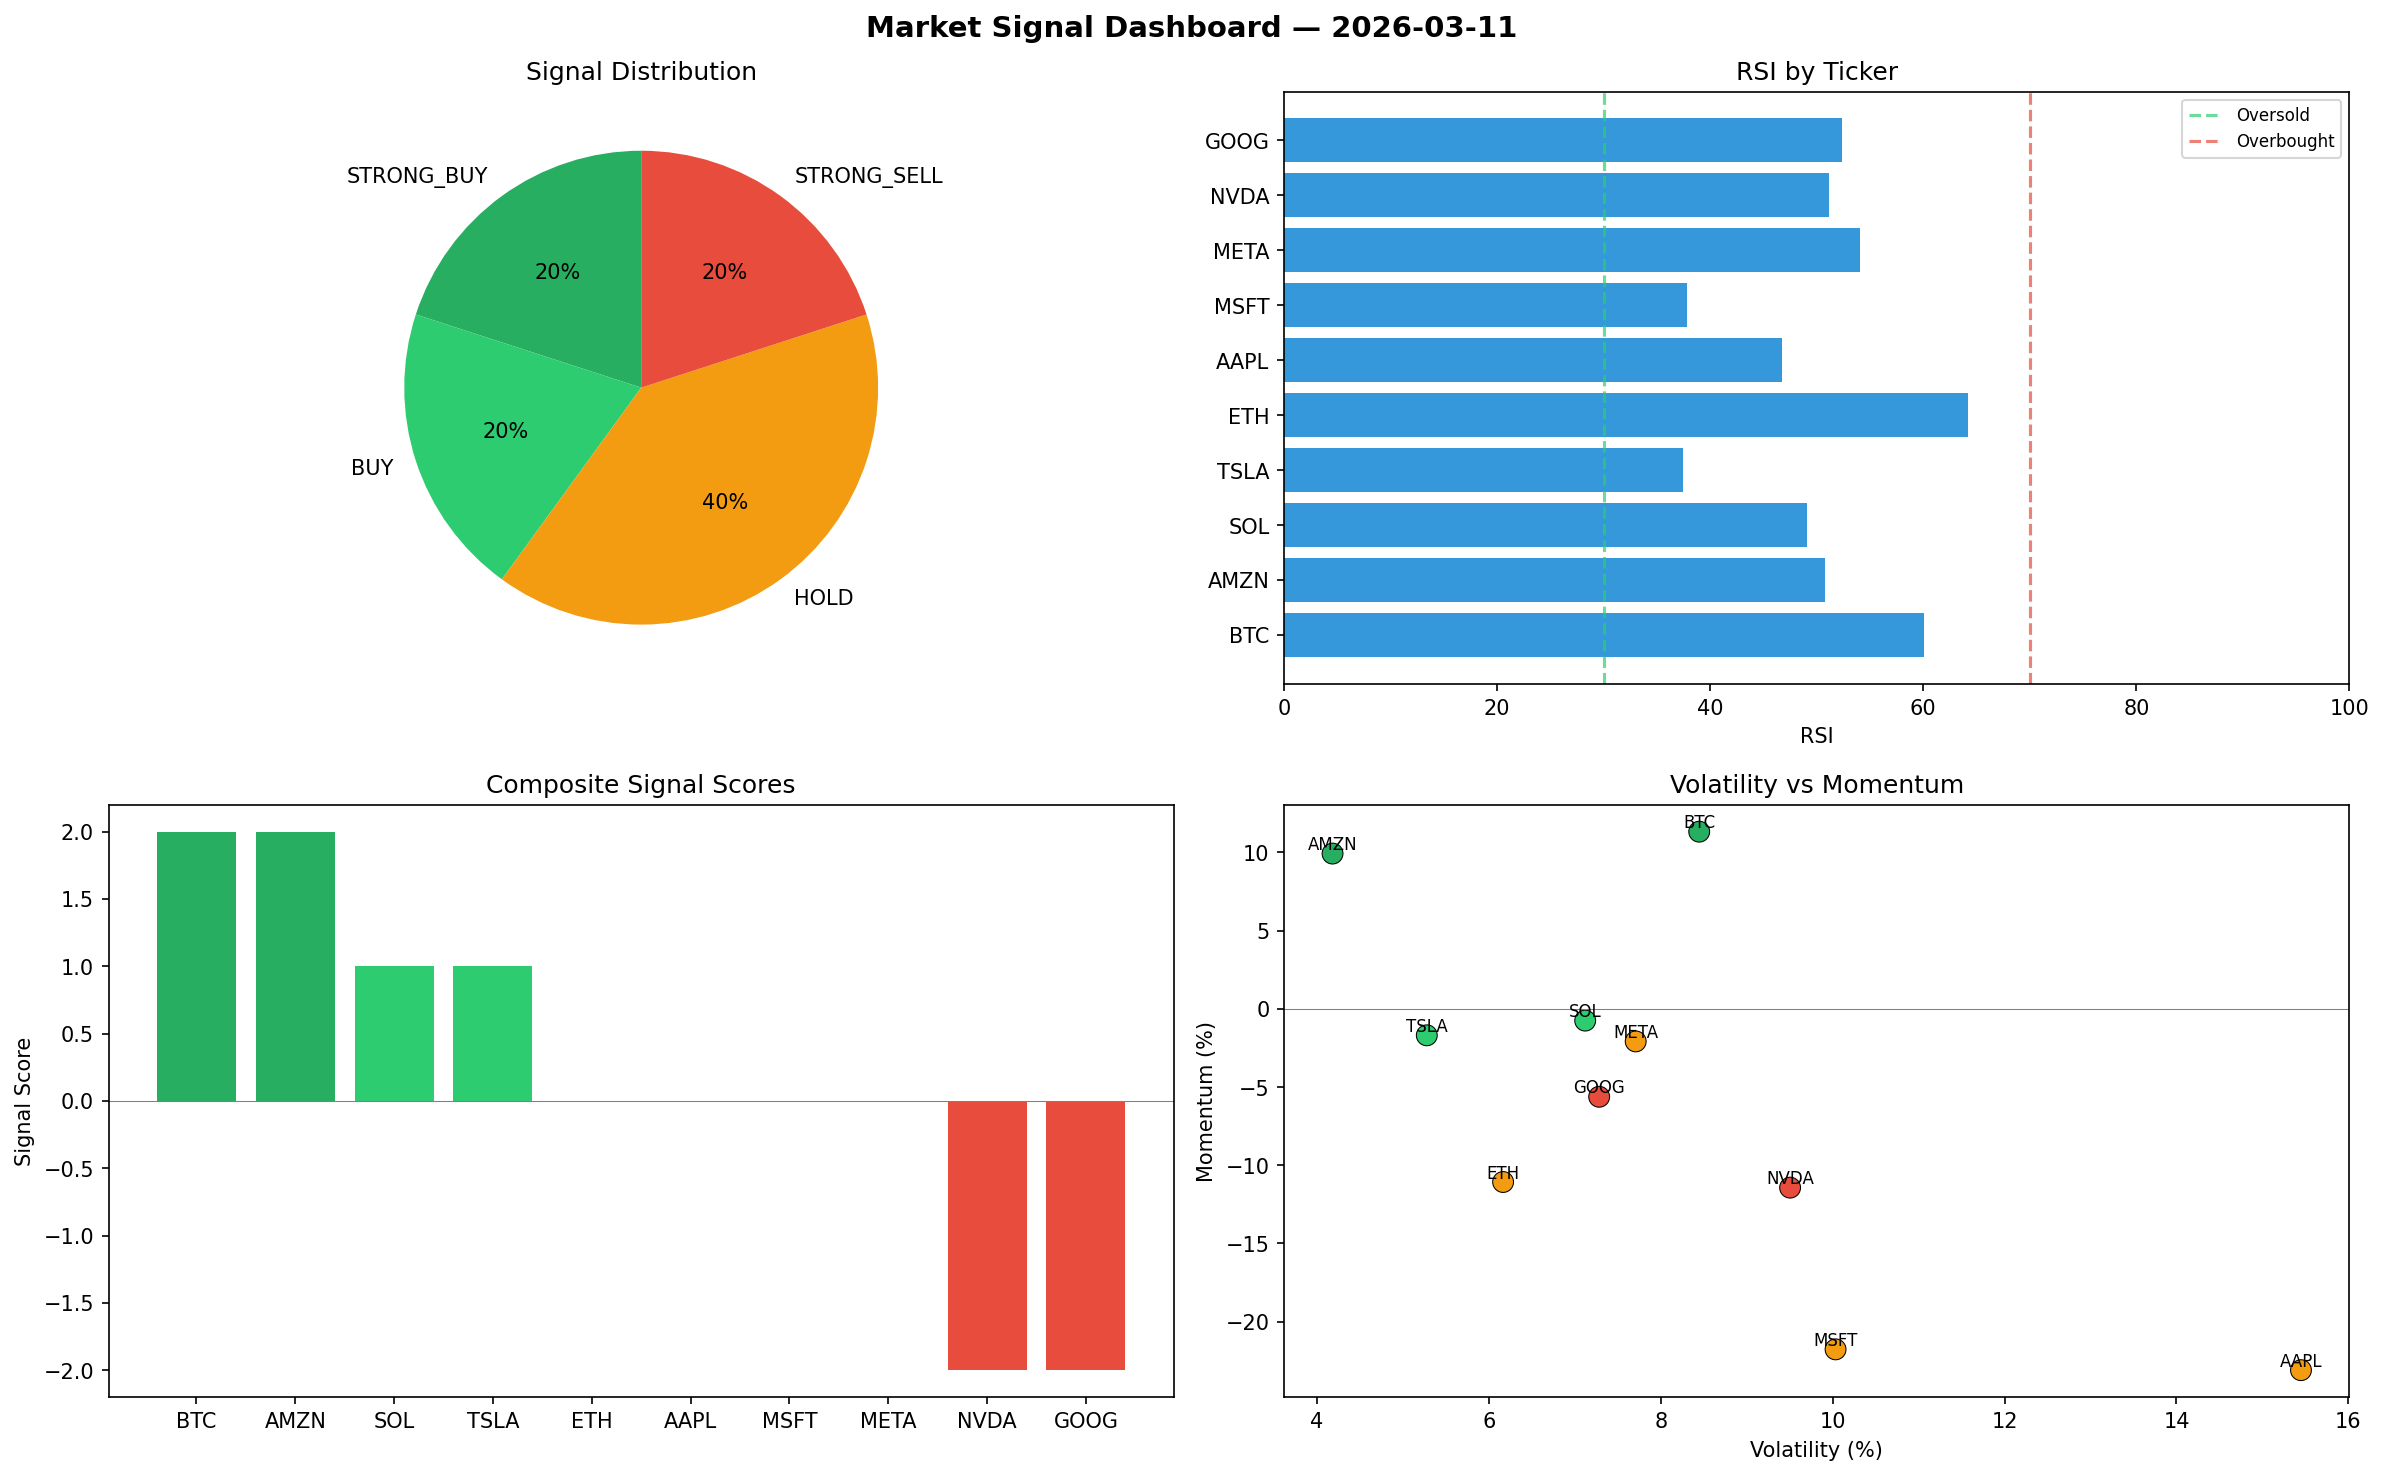
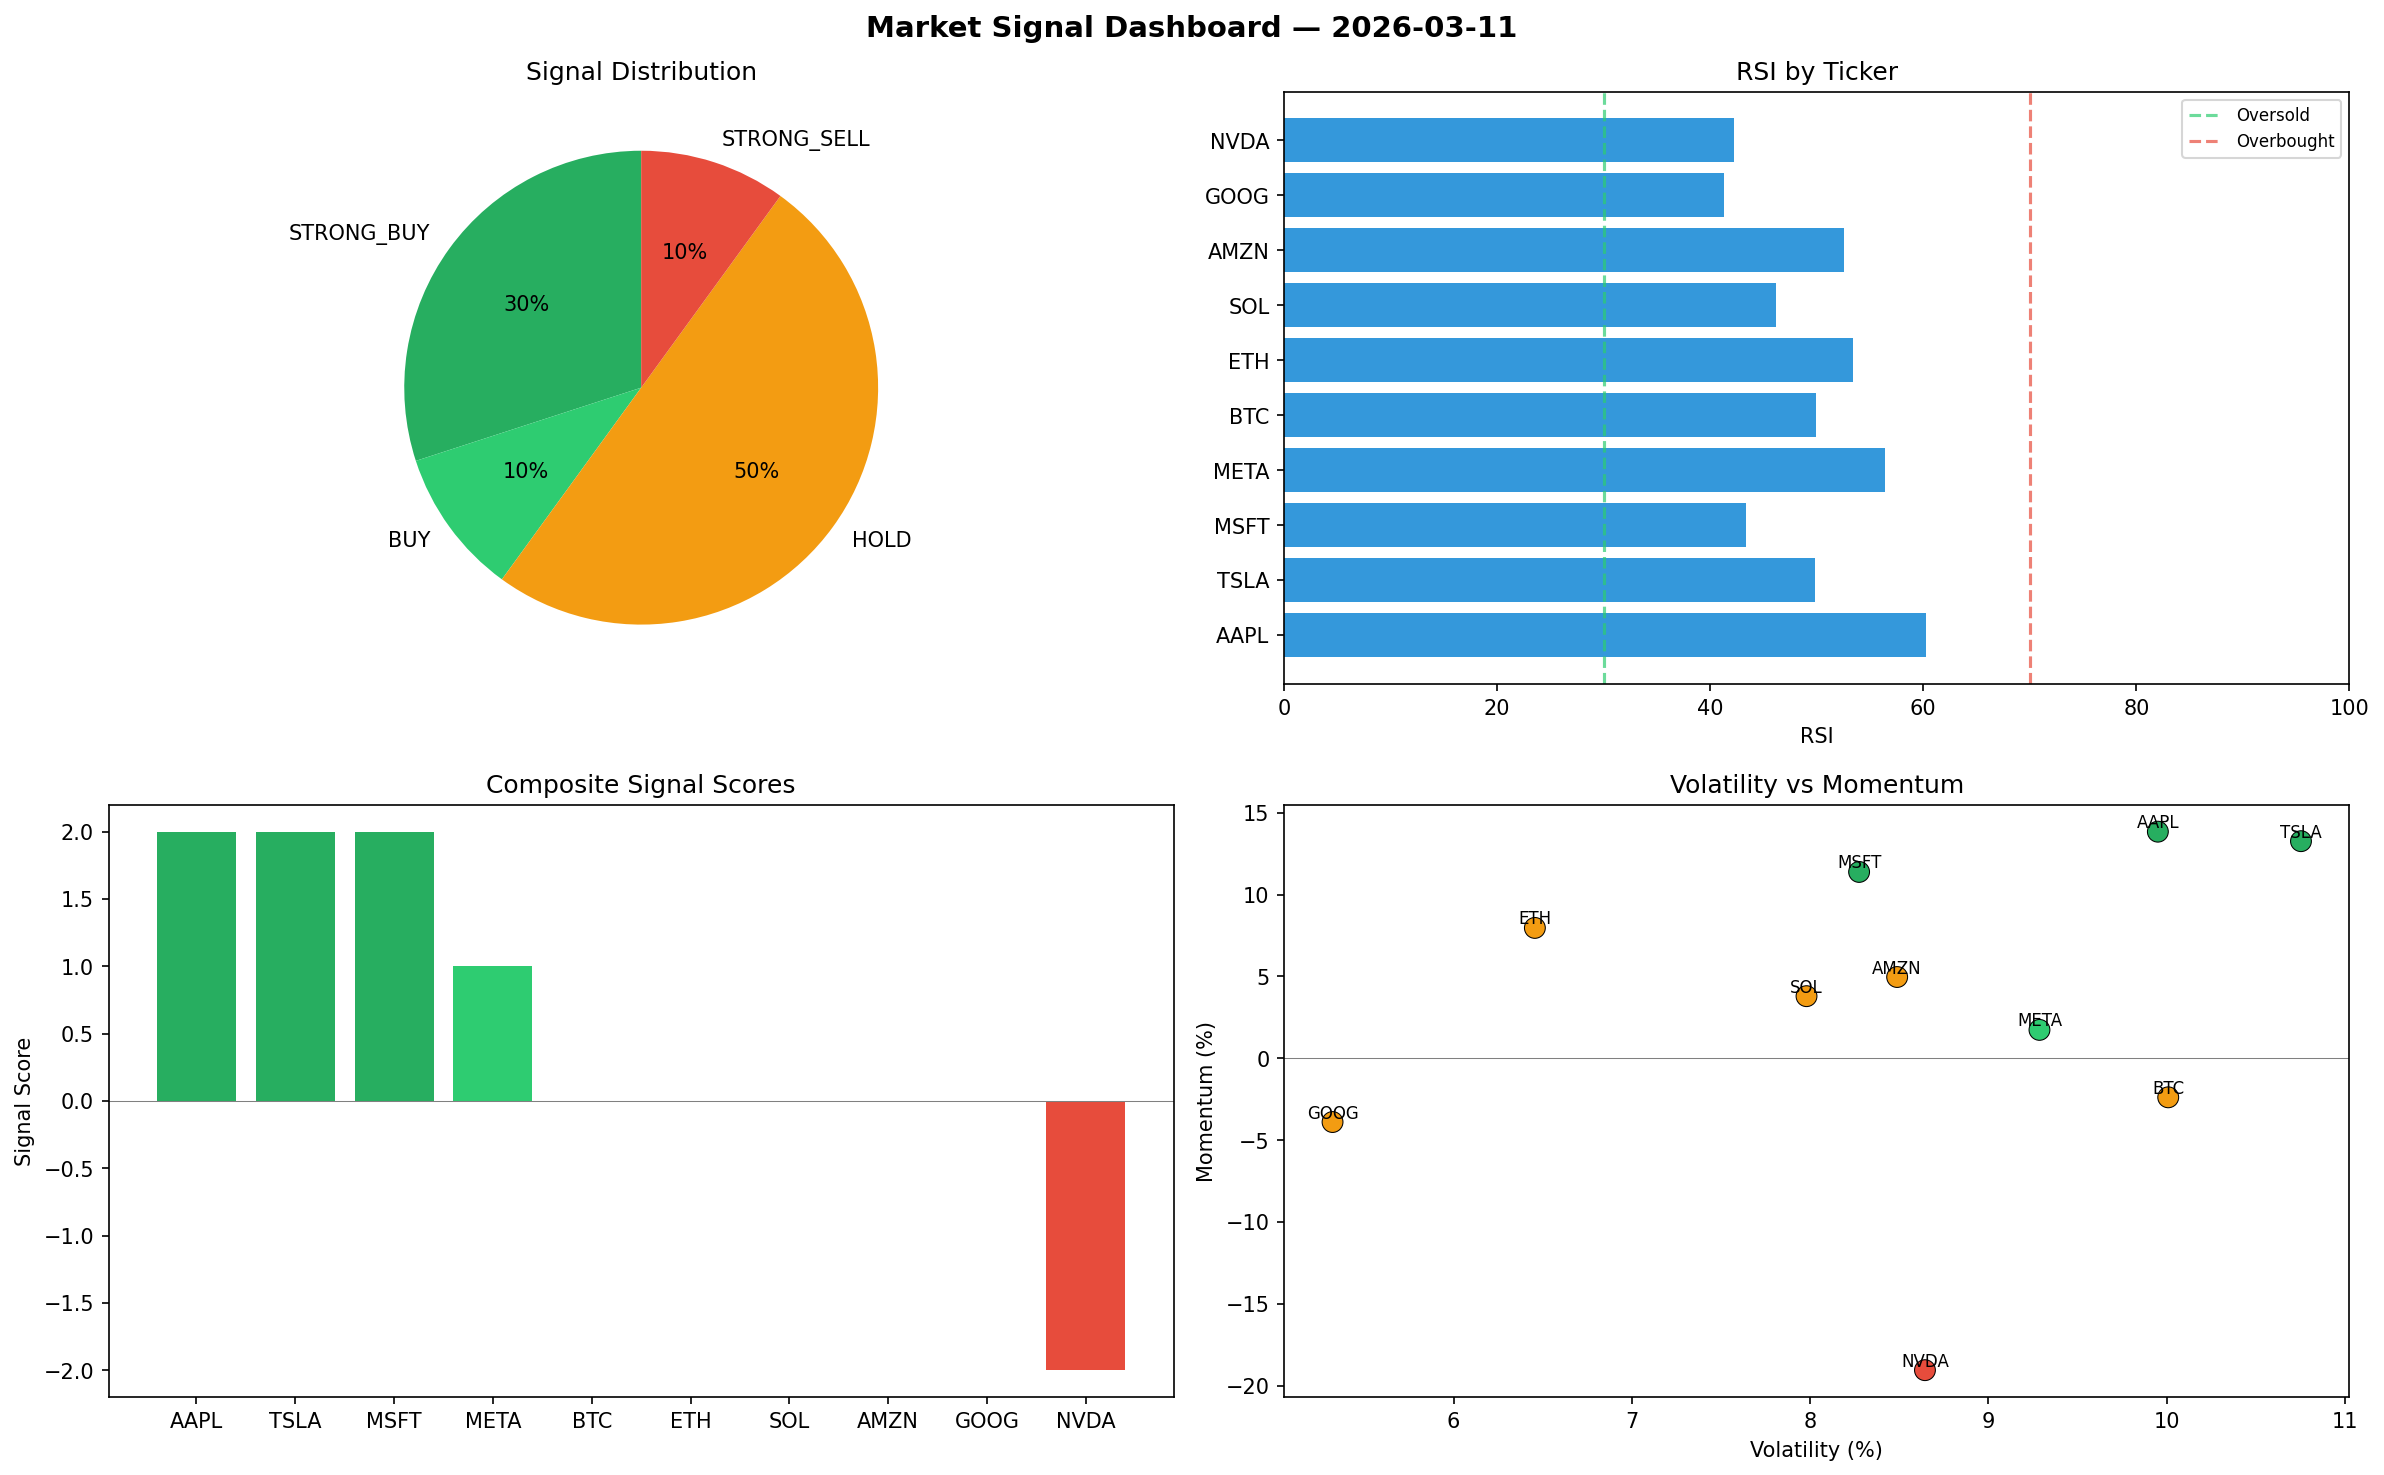
automated-bots: market signals 2026-03-11T09:05

diff --git a/logs/2026-03-11.md b/logs/2026-03-11.md
@@ -1,6 +1,6 @@
 # Market Signal Report — 2026-03-11
 
-**Run ID:** `1a49416010` | **Buy:** 4 | **Sell:** 2 | **Hold:** 4
+**Run ID:** `c382e515ee` | **Buy:** 4 | **Sell:** 1 | **Hold:** 5
 
 ![Dashboard](2026-03-11_dashboard.png)
 
@@ -8,28 +8,28 @@
 
 | Ticker | Price | Signal | Score | RSI | Momentum | Confidence |
 |--------|-------|--------|-------|-----|----------|------------|
-| BTC | $267.08 | **STRONG_BUY** | 2 | 60.06 | 0.1133 | 0.5 |
-| AMZN | $4109.78 | **STRONG_BUY** | 2 | 50.74 | 0.0993 | 0.5 |
-| SOL | $2968.67 | **BUY** | 1 | 49.09 | -0.0075 | 0.25 |
-| TSLA | $1692.74 | **BUY** | 1 | 37.42 | -0.0169 | 0.25 |
-| ETH | $989.94 | **HOLD** | 0 | 64.23 | -0.1107 | 0.0 |
-| AAPL | $1255.89 | **HOLD** | 0 | 46.77 | -0.231 | 0.0 |
-| MSFT | $972.02 | **HOLD** | 0 | 37.82 | -0.2177 | 0.0 |
-| META | $3648.91 | **HOLD** | 0 | 54.05 | -0.0208 | 0.0 |
-| NVDA | $1916.93 | **STRONG_SELL** | -2 | 51.19 | -0.1143 | 0.5 |
-| GOOG | $3997.15 | **STRONG_SELL** | -2 | 52.39 | -0.0562 | 0.5 |
+| AAPL | $207.35 | **STRONG_BUY** | 2 | 60.3 | 0.1384 | 0.5 |
+| TSLA | $4176.75 | **STRONG_BUY** | 2 | 49.83 | 0.1326 | 0.5 |
+| MSFT | $3706.57 | **STRONG_BUY** | 2 | 43.4 | 0.1138 | 0.5 |
+| META | $1701.0 | **BUY** | 1 | 56.4 | 0.0173 | 0.25 |
+| BTC | $2570.38 | **HOLD** | 0 | 49.93 | -0.0239 | 0.0 |
+| ETH | $3841.64 | **HOLD** | 0 | 53.41 | 0.0796 | 0.0 |
+| SOL | $3957.56 | **HOLD** | 0 | 46.18 | 0.0379 | 0.0 |
+| AMZN | $58.59 | **HOLD** | 0 | 52.52 | 0.0496 | 0.0 |
+| GOOG | $2352.99 | **HOLD** | 0 | 41.27 | -0.039 | 0.0 |
+| NVDA | $202.96 | **STRONG_SELL** | -2 | 42.23 | -0.1906 | 0.5 |
 
 ## Delta vs Yesterday
 
 | Ticker | Today | Yesterday | Price Change | Signal Changed |
 |--------|-------|-----------|-------------|----------------|
-| BTC | STRONG_BUY | STRONG_SELL | 📉 -73.25% | ⚠ YES |
-| AMZN | STRONG_BUY | STRONG_BUY | 📉 -8.15% | — |
-| SOL | BUY | SELL | 📉 -18.98% | ⚠ YES |
-| TSLA | BUY | STRONG_SELL | 📈 247.64% | ⚠ YES |
-| ETH | HOLD | STRONG_BUY | 📉 -65.39% | ⚠ YES |
-| AAPL | HOLD | STRONG_BUY | 📉 -27.69% | ⚠ YES |
-| MSFT | HOLD | STRONG_SELL | 📉 -66.24% | ⚠ YES |
-| META | HOLD | STRONG_BUY | 📈 51.9% | ⚠ YES |
-| NVDA | STRONG_SELL | BUY | 📉 -54.54% | ⚠ YES |
-| GOOG | STRONG_SELL | STRONG_BUY | 📉 -15.68% | ⚠ YES |
+| AAPL | STRONG_BUY | STRONG_BUY | 📉 -88.06% | — |
+| TSLA | STRONG_BUY | STRONG_SELL | 📈 757.77% | ⚠ YES |
+| MSFT | STRONG_BUY | STRONG_SELL | 📈 28.73% | ⚠ YES |
+| META | BUY | STRONG_BUY | 📉 -29.19% | ⚠ YES |
+| BTC | HOLD | STRONG_SELL | 📈 157.42% | ⚠ YES |
+| ETH | HOLD | STRONG_BUY | 📈 34.3% | ⚠ YES |
+| SOL | HOLD | SELL | 📈 8.01% | ⚠ YES |
+| AMZN | HOLD | STRONG_BUY | 📉 -98.69% | ⚠ YES |
+| GOOG | HOLD | STRONG_BUY | 📉 -50.36% | ⚠ YES |
+| NVDA | STRONG_SELL | BUY | 📉 -95.19% | ⚠ YES |
